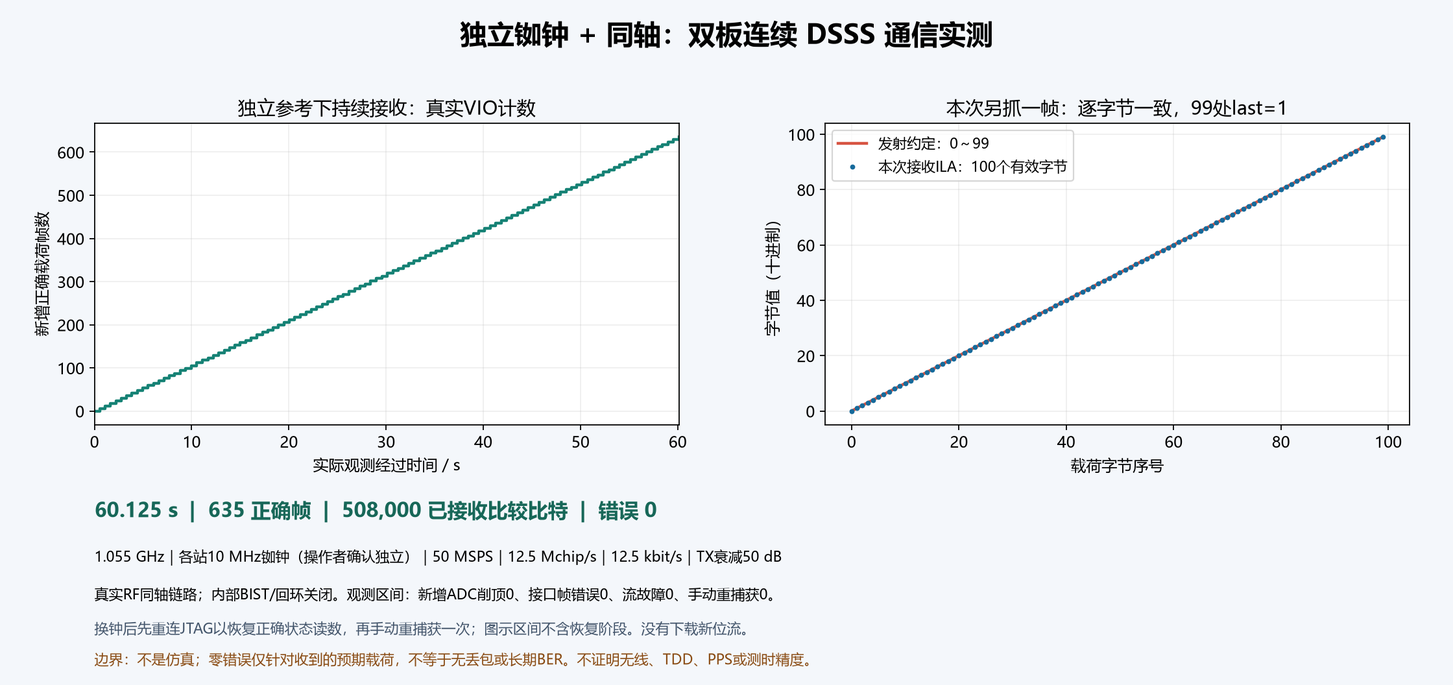
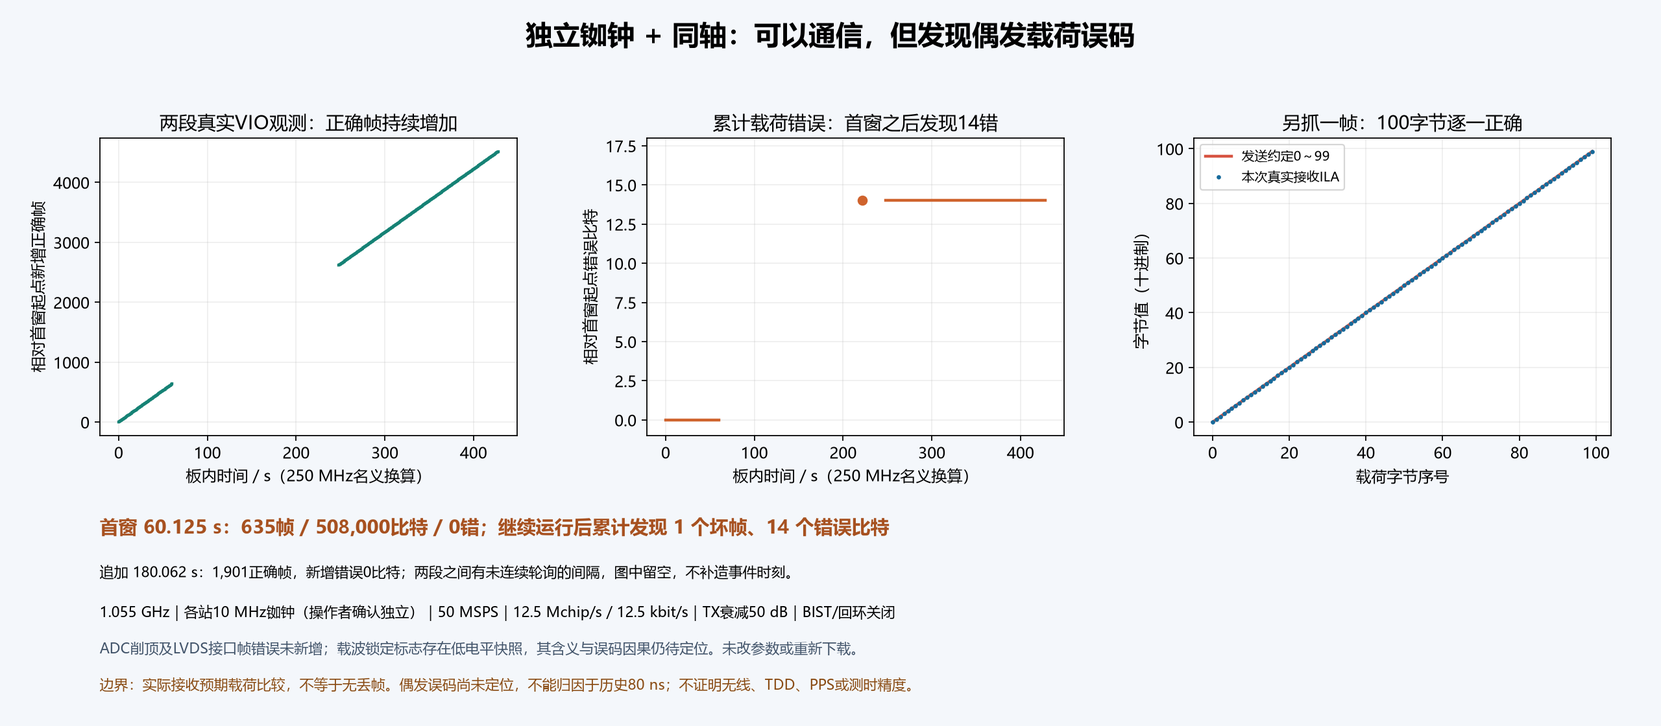
Update DSSS simulation gallery 2026-10-17

diff --git a/catalog.html b/catalog.html
@@ -771,10 +771,10 @@ img{width:100%;height:240px;object-fit:contain;background:#f8fafc}h3{font-size:1
 <li><a href="modules.html#script_continuous_rx">实板连续接收机：双板同轴载荷验证</a>：登记的新图对应模块；场景及信号说明见图注</li>
 </ul><details class="panel-note"><summary>这张图从哪里取数 / 如何阅读</summary><p>已按登记信息关联模块；具体场景及信号说明：2026-10-17两块FMQL45T900+AD9361实板，共用10MHz铷钟，同轴相连，无外部功放或衰减器。1.055GHz、I/Q50MSPS、模拟带宽20MHz、用户FIR旁路，TX芯片衰减50dB、RX MGC设20dB。真实FPGA发送组帧/PN1000/成型FIR/XPM/LVDS/AD9361 RF，经物理同轴进入另一板AD9361 ADC/LVDS/XPM/插值5/RX FIR/FFT捕获/DLL/归一化/Costas/BPSK/解帧/字节。发送148字节帧，含100字节0～99，12.5Mchip/s、12.5kbit/s、帧周期94.72ms；无PPS/TDD，PS未接入，JTAG主机调用ADI驱动初始化。首次零载荷阻断来自旧rx_norm等待200us无输入，已增加连续模式，900逐点及64稀疏恢复真实IP回归通过；插值器增加输入配对流水后比原算法多一拍/4ns，14992点位一致，时间校准须计入。最终Vivado内部STA建立0.158ns/保持0.052ns，FMSH DISABLE_ICAP/VCCM补丁实际校验并仅下载接收板。新位流重新扫描RX203/256点通过，选0x006=44；TX105/256点通过，选0x007=3B；选定点实际PRBS零新增错，完整记录本地保留。左右图都为硬件：左图60.36s真实VIO观测，新增638正确帧、63800字节、510400比较比特、错误0，ADC推进3020550000点，区间新增削顶/帧错误0、无流故障；右图另一帧独立ILA中100个payload_valid字节恰为0～99，last只在99处。关发射并等待至少300ms管线排空后，1.032s窗口新增字节/帧为0；恢复50dB发射并手动rearm后再次验收通过。BIST和数字回环关闭。此为已接收预期比特的观测零错误，未加帧序号，不等于无丢包或长期BER指标；不证明无线5km、独立铷钟、TDD、PPS或ps精度。失锁后当前为手动重捕获，外部DDR完整时序和全工况验收待补。源顶层DSSS_BPSK_TXRX_continuous_tx_top.v与DSSS_BPSK_TXRX_continuous_rx_top.v；accept_conducted_rx.py读取真实状态、plot_continuous_two_board_payload.py只在计数与ILA双门槛通过后绘图。不是Simulink仿真，原始CSV/JSON、位流/源SHA与旧失败保留本地，不公开RTL/IP/位流。</p>
 </details></article>
-<article data-era="current" data-modules="script_continuous_tx script_continuous_rx"><span class="badge">E3独立参考同轴：60.125秒635正确帧/508000已接收比较比特错误0；本次ILA100字节正确</span><h3>53_AD9361双板实测_独立铷钟同轴DSSS通信.png</h3><a href="08_MATLAB_Simulink_RTL%E5%AF%B9%E7%85%A7/53_AD9361%E5%8F%8C%E6%9D%BF%E5%AE%9E%E6%B5%8B_%E7%8B%AC%E7%AB%8B%E9%93%B7%E9%92%9F%E5%90%8C%E8%BD%B4DSSS%E9%80%9A%E4%BF%A1.png" target="_blank"><img loading="lazy" src="08_MATLAB_Simulink_RTL%E5%AF%B9%E7%85%A7/53_AD9361%E5%8F%8C%E6%9D%BF%E5%AE%9E%E6%B5%8B_%E7%8B%AC%E7%AB%8B%E9%93%B7%E9%92%9F%E5%90%8C%E8%BD%B4DSSS%E9%80%9A%E4%BF%A1.png" alt="53_AD9361双板实测_独立铷钟同轴DSSS通信.png"></a><p>2026-10-17用户确认两站改用独立铷钟10MHz；按此前同轴连接继续测试，没有改接天线或提高发射功率。载频1.055GHz、50MSPS、20MHz模拟带宽、用户FIR旁路、PN1000/12.5Mchip/s/12.5kbit/s，148字节帧周期94.72ms，载荷100字节0～99，TX衰减50dB。初始JTAG的VIO固定识别字整体错位，原始异常单独保留，未将错位数据解码为通信结果；关闭并重开两板调试连接后读数恢复，无位流下载或AD9361重新初始化。重连期间射频路径暂置RX，确认PLL锁定、接口配置和衰减后恢复低功率连续扩频发射，接收手动rearm一次，然后进入60.125秒验收区间。区间新增635正确帧、63500字节、508000个已接收比较比特、错误比特0、坏帧0；ADC推进3007600038点，新增削顶0/接口帧错误0，无流故障、区间未再次rearm。另用本次实板ILA抓到100个payload_valid字节恰为0～99，last只在99处。两板BBPLL/RXPLL/TXPLL均读回锁定，内部BIST和数字回环关闭。图左为真实VIO累积帧计数，右为本次ILA逐字节比较；不是MATLAB合成接收数据。独立参考接法依据操作者确认，本次未用频率计独立测两台铷钟频差，也不从稀疏载波相位反推频差。零错误只涵盖实际收到的预期载荷，空口无帧序号，不能推出无丢包或长期BER；不证明无线、TDD、PS接入、PPS或ps测时精度。原始日志/CSV/JSON与SHA留本地，只公开图和说明。绘图tools/plot_independent_rubidium_payload.py，脚本测量输出，不是新Simulink模块。</p><p><strong>对应模块 / 图源：</strong></p><ul class="module-links">
+<article data-era="current" data-modules="script_continuous_tx script_continuous_rx"><span class="badge">E3独立参考同轴：可持续通信，但首窗之后出现1坏帧/14错误比特；追加180.062秒未新增错</span><h3>53_AD9361双板实测_独立铷钟同轴DSSS通信.png</h3><a href="08_MATLAB_Simulink_RTL%E5%AF%B9%E7%85%A7/53_AD9361%E5%8F%8C%E6%9D%BF%E5%AE%9E%E6%B5%8B_%E7%8B%AC%E7%AB%8B%E9%93%B7%E9%92%9F%E5%90%8C%E8%BD%B4DSSS%E9%80%9A%E4%BF%A1.png" target="_blank"><img loading="lazy" src="08_MATLAB_Simulink_RTL%E5%AF%B9%E7%85%A7/53_AD9361%E5%8F%8C%E6%9D%BF%E5%AE%9E%E6%B5%8B_%E7%8B%AC%E7%AB%8B%E9%93%B7%E9%92%9F%E5%90%8C%E8%BD%B4DSSS%E9%80%9A%E4%BF%A1.png" alt="53_AD9361双板实测_独立铷钟同轴DSSS通信.png"></a><p>2026-10-17用户确认两站改用独立铷钟10MHz；按此前同轴连接继续测试，没有改接天线或提高发射功率。载频1.055GHz、50MSPS、20MHz模拟带宽、用户FIR旁路、PN1000/12.5Mchip/s/12.5kbit/s，148字节帧周期94.72ms，载荷100字节0～99，TX衰减50dB。初始JTAG的VIO固定识别字整体错位，原始异常单独保留，未将错位数据解码为通信结果；关闭并重开两板调试连接后读数恢复，无位流下载或AD9361重新初始化。重连期间射频路径暂置RX，确认PLL锁定、接口配置和衰减后恢复低功率连续扩频发射，接收手动rearm一次，然后进入60.125秒验收区间。区间新增635正确帧、63500字节、508000个已接收比较比特、错误比特0、坏帧0；ADC推进3007600038点，新增削顶0/接口帧错误0，无流故障、区间未再次rearm。另用本次实板ILA抓到100个payload_valid字节恰为0～99，last只在99处。两板BBPLL/RXPLL/TXPLL均读回锁定，内部BIST和数字回环关闭。图左为真实VIO累积帧计数，右为本次ILA逐字节比较；不是MATLAB合成接收数据。独立参考接法依据操作者确认，本次未用频率计独立测两台铷钟频差，也不从稀疏载波相位反推频差。零错误只涵盖实际收到的预期载荷，空口无帧序号，不能推出无丢包或长期BER；不证明无线、TDD、PS接入、PPS或ps测时精度。原始日志/CSV/JSON与SHA留本地，只公开图和说明。绘图tools/plot_independent_rubidium_payload.py，脚本测量输出，不是新Simulink模块。 后续扩展记录：首60.125秒零误码窗口结束后，18:00:26实板快照发现累计1坏帧/14错误比特，无新增ADC削顶或LVDS帧错误，原因未定位。未清计数、未再rearm、未改波形与增益，追加180.062秒收到1901正确帧、比较1520800比特、无新增坏帧/比特错误；不能用追加窗口通过覆盖此前失败。图已更新：左为两段真实正确帧计数，中为包含后续错误的累计错误比特，右为本次ILA；两窗间未连续轮询区段留空，不补造错误发生时刻。追加窗口部分采样carrier_locked为0，code_locked均为1；锁定标志是RTL检测器输出，不等同证明实际环路失锁，也未证明与误码存在因果。独立参考通信可工作，但稳定零误码验收未通过；历史80ns根因仍未确认。</p><p><strong>对应模块 / 图源：</strong></p><ul class="module-links">
 <li><a href="modules.html#script_continuous_tx">实板连续发射机：FPGA帧源到AD9361射频</a>：登记的新图对应模块；场景及信号说明见图注</li>
 <li><a href="modules.html#script_continuous_rx">实板连续接收机：双板同轴载荷验证</a>：登记的新图对应模块；场景及信号说明见图注</li>
-</ul><details class="panel-note"><summary>这张图从哪里取数 / 如何阅读</summary><p>已按登记信息关联模块；具体场景及信号说明：2026-10-17用户确认两站改用独立铷钟10MHz；按此前同轴连接继续测试，没有改接天线或提高发射功率。载频1.055GHz、50MSPS、20MHz模拟带宽、用户FIR旁路、PN1000/12.5Mchip/s/12.5kbit/s，148字节帧周期94.72ms，载荷100字节0～99，TX衰减50dB。初始JTAG的VIO固定识别字整体错位，原始异常单独保留，未将错位数据解码为通信结果；关闭并重开两板调试连接后读数恢复，无位流下载或AD9361重新初始化。重连期间射频路径暂置RX，确认PLL锁定、接口配置和衰减后恢复低功率连续扩频发射，接收手动rearm一次，然后进入60.125秒验收区间。区间新增635正确帧、63500字节、508000个已接收比较比特、错误比特0、坏帧0；ADC推进3007600038点，新增削顶0/接口帧错误0，无流故障、区间未再次rearm。另用本次实板ILA抓到100个payload_valid字节恰为0～99，last只在99处。两板BBPLL/RXPLL/TXPLL均读回锁定，内部BIST和数字回环关闭。图左为真实VIO累积帧计数，右为本次ILA逐字节比较；不是MATLAB合成接收数据。独立参考接法依据操作者确认，本次未用频率计独立测两台铷钟频差，也不从稀疏载波相位反推频差。零错误只涵盖实际收到的预期载荷，空口无帧序号，不能推出无丢包或长期BER；不证明无线、TDD、PS接入、PPS或ps测时精度。原始日志/CSV/JSON与SHA留本地，只公开图和说明。绘图tools/plot_independent_rubidium_payload.py，脚本测量输出，不是新Simulink模块。</p>
+</ul><details class="panel-note"><summary>这张图从哪里取数 / 如何阅读</summary><p>已按登记信息关联模块；具体场景及信号说明：2026-10-17用户确认两站改用独立铷钟10MHz；按此前同轴连接继续测试，没有改接天线或提高发射功率。载频1.055GHz、50MSPS、20MHz模拟带宽、用户FIR旁路、PN1000/12.5Mchip/s/12.5kbit/s，148字节帧周期94.72ms，载荷100字节0～99，TX衰减50dB。初始JTAG的VIO固定识别字整体错位，原始异常单独保留，未将错位数据解码为通信结果；关闭并重开两板调试连接后读数恢复，无位流下载或AD9361重新初始化。重连期间射频路径暂置RX，确认PLL锁定、接口配置和衰减后恢复低功率连续扩频发射，接收手动rearm一次，然后进入60.125秒验收区间。区间新增635正确帧、63500字节、508000个已接收比较比特、错误比特0、坏帧0；ADC推进3007600038点，新增削顶0/接口帧错误0，无流故障、区间未再次rearm。另用本次实板ILA抓到100个payload_valid字节恰为0～99，last只在99处。两板BBPLL/RXPLL/TXPLL均读回锁定，内部BIST和数字回环关闭。图左为真实VIO累积帧计数，右为本次ILA逐字节比较；不是MATLAB合成接收数据。独立参考接法依据操作者确认，本次未用频率计独立测两台铷钟频差，也不从稀疏载波相位反推频差。零错误只涵盖实际收到的预期载荷，空口无帧序号，不能推出无丢包或长期BER；不证明无线、TDD、PS接入、PPS或ps测时精度。原始日志/CSV/JSON与SHA留本地，只公开图和说明。绘图tools/plot_independent_rubidium_payload.py，脚本测量输出，不是新Simulink模块。 后续扩展记录：首60.125秒零误码窗口结束后，18:00:26实板快照发现累计1坏帧/14错误比特，无新增ADC削顶或LVDS帧错误，原因未定位。未清计数、未再rearm、未改波形与增益，追加180.062秒收到1901正确帧、比较1520800比特、无新增坏帧/比特错误；不能用追加窗口通过覆盖此前失败。图已更新：左为两段真实正确帧计数，中为包含后续错误的累计错误比特，右为本次ILA；两窗间未连续轮询区段留空，不补造错误发生时刻。追加窗口部分采样carrier_locked为0，code_locked均为1；锁定标志是RTL检测器输出，不等同证明实际环路失锁，也未证明与误码存在因果。独立参考通信可工作，但稳定零误码验收未通过；历史80ns根因仍未确认。</p>
 </details></article>
 </div></section>
 <section data-category="9" id="c9"><h2>09_无线性能与鲁棒性</h2><p class="note">当前MATLAB可视化参数探索：自定义FIR、Costas、码率与信道；与历史旧方案场景分开。功能探索不等于真实RTL或70km无线性能验收。</p><div class="grid">

diff --git a/00_图册索引.html b/00_图册索引.html
@@ -21,7 +21,7 @@
     @media(prefers-reduced-motion:reduce){html{scroll-behavior:auto}}
     </style></head><body>
 <header class="top"><div class="wrap"><a class="brand" href="00_图册索引.html">DSSS / ENGINEERING REVIEW</a><nav aria-label="主导航"><a aria-current="page" href="00_图册索引.html">评审首页</a><a href="field_environment.html">当前场景基线</a><a href="migration.html">工程主线</a><a href="modules.html">模型与模块</a><a href="node_lab.html">节点实验室</a><a href="precision_evidence.html">精度证据</a><a href="catalog.html">完整图册</a></nav></div></header>
-<div class="hero"><div class="wrap"><div class="hero-grid"><div><p class="eyebrow">LEGACY RTL → AD9361 · TRACEABLE ENGINEERING EVIDENCE</p><h1>接住原系统，解释关键误差，<br>从仿真走到双板载荷实测</h1><p class="lead">首页只回答技术评审最关心的三件事：原工程是否真正继承、80 ns与几百ps是否有可复跑证据、距离AD9361整机通信还剩哪些关卡。</p><div class="hero-actions"><a class="button primary" href="#verdict">先看评审结论 ↓</a><a class="button" href="#proofs">核对关键证据 →</a><a class="button" href="catalog.html">进入完整图册 →</a></div></div><div class="hero-note"><strong>当前总判断：双板同轴载荷通信已实测通过</strong>80 ns机制可控复现，亚码片精测算术链已有RTL证据；1.055GHz双板独立铷钟同轴通信已通过；无线/TDD、PPS和测时精度仍待验收。</div></div>
+<div class="hero"><div class="wrap"><div class="hero-grid"><div><p class="eyebrow">LEGACY RTL → AD9361 · TRACEABLE ENGINEERING EVIDENCE</p><h1>接住原系统，解释关键误差，<br>从仿真走到双板载荷实测</h1><p class="lead">首页只回答技术评审最关心的三件事：原工程是否真正继承、80 ns与几百ps是否有可复跑证据、距离AD9361整机通信还剩哪些关卡。</p><div class="hero-actions"><a class="button primary" href="#verdict">先看评审结论 ↓</a><a class="button" href="#proofs">核对关键证据 →</a><a class="button" href="catalog.html">进入完整图册 →</a></div></div><div class="hero-note"><strong>当前总判断：双板通信已通，独立参考偶发误码待定位</strong>80 ns机制可控复现，亚码片精测算术链已有RTL证据；1.055GHz双板独立铷钟同轴已能通信，但发现偶发误码；无线/TDD、PPS和测时精度仍待验收。</div></div>
 <div class="hero-foot"><span>评审版更新 2026-10-17</span><span>图册收录 127 个图文件</span><span>证据等级：功能模型 / 真实RTL分段 / 双板同轴实测 / 外场与测时待验收</span></div></div></div>
 <main class="wrap">
 <section id="verdict"><div class="section-head"><div><h2>六个数字，先给出工程判断</h2><p>数字旁边直接写明证据类型，避免把功能仿真、RTL分段和硬件实测混为一谈。</p></div><a href="precision_evidence.html">查看时间精度数据来源 →</a></div><div class="verdict">
@@ -34,10 +34,10 @@
 <section><div class="section-head"><div><h2>证据等级与当前边界</h2><p>同一个“通过”在不同层级含义不同；最终结论只能由对应等级的证据支持。</p></div></div><div class="matrix"><table><thead><tr><th>等级</th><th>当前证据</th><th>已经证明</th><th>尚不能证明</th><th>状态</th></tr></thead><tbody>
 <tr><td><b>E1 功能模型</b></td><td>MATLAB/Simulink波形、噪声、多径、环路与BER</td><td>算法趋势、参数敏感度、故障机制</td><td class="boundary-cell">定点逐拍、资源、时序和硬件固定延迟</td><td><span class="state e1">已覆盖</span></td></tr>
 <tr><td><b>E2 RTL分段</b></td><td>真实.v、生产COE/IP、XSim分段测试</td><td>接口算术、位宽、关键算法段行为</td><td class="boundary-cell">完整RF链、板级CDC/LVDS和外场性能</td><td><span class="state e2">核心段通过</span></td></tr>
-<tr><td><b>E3 板级验证</b></td><td>双板SPI/PLL/LVDS、真实连续发送和接收解码</td><td>独立参考同轴60.125秒，635正确帧/508000比较比特错误0</td><td class="boundary-cell">独立10MHz接法由操作者确认；无线/PPS精度仍待验收</td><td><span class="state e3">同轴通信通过</span></td></tr>
+<tr><td><b>E3 板级验证</b></td><td>双板SPI/PLL/LVDS、真实连续发送和接收解码</td><td>独立参考同轴可通信；首窗后出现1坏帧/14错误比特</td><td class="boundary-cell">独立参考下偶发误码待定位；无线/PPS精度仍待验收</td><td><span class="state e3">同轴通信通过</span></td></tr>
 <tr><td><b>E4 双站外场</b></td><td>独立铷钟、双向无线、≤5 km与长期统计</td><td>最终通信和钟差指标</td><td class="boundary-cell">需要按验收规程定义统计口径</td><td><span class="state e4">待验收</span></td></tr>
 </tbody></table></div></section>
-<section id="board-bringup"><div class="section-head"><div><h2>最新上板进展 · 独立参考下通信已通</h2><p>先共参考同轴，再独立参考同轴，随后验证无线和双向测时。结果来自真实板卡VIO/ILA。</p></div></div><div class="proof-grid" style="grid-template-columns:1fr"><article class="proof-card"><div class="proof-top"><span class="proof-no">LATEST / INDEPENDENT CLOCKS</span><span class="level">E3 · 独立铷钟同轴实测</span></div><h3>改用独立铷钟后，连续DSSS载荷通信通过</h3><p class="result">60.125秒｜635正确帧｜508,000个已接收比较比特错误0。</p><a class="figure" href="08_MATLAB_Simulink_RTL%E5%AF%B9%E7%85%A7/53_AD9361%E5%8F%8C%E6%9D%BF%E5%AE%9E%E6%B5%8B_%E7%8B%AC%E7%AB%8B%E9%93%B7%E9%92%9F%E5%90%8C%E8%BD%B4DSSS%E9%80%9A%E4%BF%A1.png" target="_blank" aria-label="打开原图：改用独立铷钟后，连续DSSS载荷通信通过"><img loading="lazy" src="08_MATLAB_Simulink_RTL%E5%AF%B9%E7%85%A7/53_AD9361%E5%8F%8C%E6%9D%BF%E5%AE%9E%E6%B5%8B_%E7%8B%AC%E7%AB%8B%E9%93%B7%E9%92%9F%E5%90%8C%E8%BD%B4DSSS%E9%80%9A%E4%BF%A1.png" alt="改用独立铷钟后，连续DSSS载荷通信通过"></a><dl><div><dt>工程解释</dt><dd>本次另抓ILA，100字节0～99逐一正确；PLL锁定，ADC/接口无新增错误。重连调试接口并手动重捕获一次后进入统计区间。</dd></div><div><dt>证据边界</dt><dd>各站独立10MHz由操作者确认；当前仍为同轴。没有测定两钟频差，不代表无丢包、无线、TDD、PPS或测时精度通过。</dd></div></dl><a class="detail" href="modules.html#script_continuous_rx">查看方法、来源与复跑入口 <span aria-hidden="true">→</span></a></article></div></section>
+<section id="board-bringup"><div class="section-head"><div><h2>最新上板进展 · 独立参考通信与偶发误码</h2><p>先共参考同轴，再独立参考同轴，随后验证无线和双向测时。结果来自真实板卡VIO/ILA。</p></div></div><div class="proof-grid" style="grid-template-columns:1fr"><article class="proof-card"><div class="proof-top"><span class="proof-no">LATEST / INDEPENDENT CLOCKS</span><span class="level">E3 · 独立铷钟同轴实测</span></div><h3>独立铷钟下可通信，但发现偶发载荷误码</h3><p class="result">首60.125秒零错；随后发现1坏帧/14错；追加180.062秒未新增错误。</p><a class="figure" href="08_MATLAB_Simulink_RTL%E5%AF%B9%E7%85%A7/53_AD9361%E5%8F%8C%E6%9D%BF%E5%AE%9E%E6%B5%8B_%E7%8B%AC%E7%AB%8B%E9%93%B7%E9%92%9F%E5%90%8C%E8%BD%B4DSSS%E9%80%9A%E4%BF%A1.png" target="_blank" aria-label="打开原图：独立铷钟下可通信，但发现偶发载荷误码"><img loading="lazy" src="08_MATLAB_Simulink_RTL%E5%AF%B9%E7%85%A7/53_AD9361%E5%8F%8C%E6%9D%BF%E5%AE%9E%E6%B5%8B_%E7%8B%AC%E7%AB%8B%E9%93%B7%E9%92%9F%E5%90%8C%E8%BD%B4DSSS%E9%80%9A%E4%BF%A1.png" alt="独立铷钟下可通信，但发现偶发载荷误码"></a><dl><div><dt>工程解释</dt><dd>本次ILA100字节逐一正确；PLL锁定，ADC/接口无新增错误。错误原始记录保留，期间未改参数或清计数；偶发误码仍需定位。</dd></div><div><dt>证据边界</dt><dd>各站独立10MHz由操作者确认；当前同轴。稳定零误码尚未通过，未测两钟频差；无线、TDD、PPS和测时精度待验收。</dd></div></dl><a class="detail" href="modules.html#script_continuous_rx">查看方法、来源与复跑入口 <span aria-hidden="true">→</span></a></article></div></section>
 <section id="workflow"><div class="section-head"><div><h2>工程继承与迁移主线</h2><p>所有新模型和代码都沿这条主线追溯；不把脚本功能参考冒充HDL自动生成。</p></div><a href="migration.html">查看差异、同载荷向量和关卡 →</a></div><div class="route">
 <a class="step" href="migration.html"><small>01 / BASELINE</small><strong>原Vivado工程</strong><p>审计组帧、PN、FIR、FFT捕获、DLL、Costas与时标链。</p></a>
 <a class="step" href="modules.html#diagram-if"><small>02 / REPRODUCTION</small><strong>原中频Simulink</strong><p>复现原链路结构，建立同载荷与系数基准。</p></a>
@@ -55,7 +55,7 @@
 <section><div class="section-head"><div><h2>技术评审最可能追问的三件事</h2><p>页面直接给出当前可站得住的回答，避免把推测说成结论。</p></div></div><div class="questions">
 <article class="question"><small>ROOT CAUSE</small><h3>80 ns现场故障是否已经定根因？</h3><p>已证明相邻路径峰误选和抽取相位变化都能形成整码片台阶，也修正过RX PPS跨时钟缺陷；缺少当次故障ILA，因此结论仍需现场信号确认。</p><a href="catalog.html#c8">查看80 ns证据链 →</a></article>
 <article class="question"><small>PRECISION</small><h3>几百ps是实测，还是预算与RTL算术？</h3><p>8.018 ps是理想输入下RTL码环残差，350 ps是RTL测试平台注入量，129.6 ps是工程预算。三者均不冒充70 km整机实测。</p><a href="precision_evidence.html">逐项核对数字来源 →</a></article>
-<article class="question"><small>DELIVERY</small><h3>当前板上已经验证到哪一步？</h3><p>双板独立参考同轴连续通信已通过，本次ILA100字节逐一核对，60秒统计零观测错误；PS、TDD、无线和PPS测时仍需验收。</p><a href="completion.html">查看落地关卡 →</a></article>
+<article class="question"><small>DELIVERY</small><h3>当前板上已经验证到哪一步？</h3><p>双板独立参考同轴可通信，本次ILA100字节正确，但继续运行出现1坏帧/14错误比特；稳定零误码、PS、TDD、无线和PPS测时仍需验收。</p><a href="completion.html">查看落地关卡 →</a></article>
 </div></section>
 <section><div class="section-head"><div><h2>硬件落地关卡</h2><p>展示完成状态和下一步测试，不用波形数量代替交付进度。</p></div><a href="completion.html">查看完整完成度与待办 →</a></div><div class="gates"><div class="gate-panel"><h3>从算法证据到双站验收</h3><ul class="gate-list">
 <li class="done"><span>已完成</span>原链路审计、AD9361功能模型、参数来源映射与候选COE/IP配置</li>

diff --git a/index.html b/index.html
@@ -21,7 +21,7 @@
     @media(prefers-reduced-motion:reduce){html{scroll-behavior:auto}}
     </style></head><body>
 <header class="top"><div class="wrap"><a class="brand" href="00_图册索引.html">DSSS / ENGINEERING REVIEW</a><nav aria-label="主导航"><a aria-current="page" href="00_图册索引.html">评审首页</a><a href="field_environment.html">当前场景基线</a><a href="migration.html">工程主线</a><a href="modules.html">模型与模块</a><a href="node_lab.html">节点实验室</a><a href="precision_evidence.html">精度证据</a><a href="catalog.html">完整图册</a></nav></div></header>
-<div class="hero"><div class="wrap"><div class="hero-grid"><div><p class="eyebrow">LEGACY RTL → AD9361 · TRACEABLE ENGINEERING EVIDENCE</p><h1>接住原系统，解释关键误差，<br>从仿真走到双板载荷实测</h1><p class="lead">首页只回答技术评审最关心的三件事：原工程是否真正继承、80 ns与几百ps是否有可复跑证据、距离AD9361整机通信还剩哪些关卡。</p><div class="hero-actions"><a class="button primary" href="#verdict">先看评审结论 ↓</a><a class="button" href="#proofs">核对关键证据 →</a><a class="button" href="catalog.html">进入完整图册 →</a></div></div><div class="hero-note"><strong>当前总判断：双板同轴载荷通信已实测通过</strong>80 ns机制可控复现，亚码片精测算术链已有RTL证据；1.055GHz双板独立铷钟同轴通信已通过；无线/TDD、PPS和测时精度仍待验收。</div></div>
+<div class="hero"><div class="wrap"><div class="hero-grid"><div><p class="eyebrow">LEGACY RTL → AD9361 · TRACEABLE ENGINEERING EVIDENCE</p><h1>接住原系统，解释关键误差，<br>从仿真走到双板载荷实测</h1><p class="lead">首页只回答技术评审最关心的三件事：原工程是否真正继承、80 ns与几百ps是否有可复跑证据、距离AD9361整机通信还剩哪些关卡。</p><div class="hero-actions"><a class="button primary" href="#verdict">先看评审结论 ↓</a><a class="button" href="#proofs">核对关键证据 →</a><a class="button" href="catalog.html">进入完整图册 →</a></div></div><div class="hero-note"><strong>当前总判断：双板通信已通，独立参考偶发误码待定位</strong>80 ns机制可控复现，亚码片精测算术链已有RTL证据；1.055GHz双板独立铷钟同轴已能通信，但发现偶发误码；无线/TDD、PPS和测时精度仍待验收。</div></div>
 <div class="hero-foot"><span>评审版更新 2026-10-17</span><span>图册收录 127 个图文件</span><span>证据等级：功能模型 / 真实RTL分段 / 双板同轴实测 / 外场与测时待验收</span></div></div></div>
 <main class="wrap">
 <section id="verdict"><div class="section-head"><div><h2>六个数字，先给出工程判断</h2><p>数字旁边直接写明证据类型，避免把功能仿真、RTL分段和硬件实测混为一谈。</p></div><a href="precision_evidence.html">查看时间精度数据来源 →</a></div><div class="verdict">
@@ -34,10 +34,10 @@
 <section><div class="section-head"><div><h2>证据等级与当前边界</h2><p>同一个“通过”在不同层级含义不同；最终结论只能由对应等级的证据支持。</p></div></div><div class="matrix"><table><thead><tr><th>等级</th><th>当前证据</th><th>已经证明</th><th>尚不能证明</th><th>状态</th></tr></thead><tbody>
 <tr><td><b>E1 功能模型</b></td><td>MATLAB/Simulink波形、噪声、多径、环路与BER</td><td>算法趋势、参数敏感度、故障机制</td><td class="boundary-cell">定点逐拍、资源、时序和硬件固定延迟</td><td><span class="state e1">已覆盖</span></td></tr>
 <tr><td><b>E2 RTL分段</b></td><td>真实.v、生产COE/IP、XSim分段测试</td><td>接口算术、位宽、关键算法段行为</td><td class="boundary-cell">完整RF链、板级CDC/LVDS和外场性能</td><td><span class="state e2">核心段通过</span></td></tr>
-<tr><td><b>E3 板级验证</b></td><td>双板SPI/PLL/LVDS、真实连续发送和接收解码</td><td>独立参考同轴60.125秒，635正确帧/508000比较比特错误0</td><td class="boundary-cell">独立10MHz接法由操作者确认；无线/PPS精度仍待验收</td><td><span class="state e3">同轴通信通过</span></td></tr>
+<tr><td><b>E3 板级验证</b></td><td>双板SPI/PLL/LVDS、真实连续发送和接收解码</td><td>独立参考同轴可通信；首窗后出现1坏帧/14错误比特</td><td class="boundary-cell">独立参考下偶发误码待定位；无线/PPS精度仍待验收</td><td><span class="state e3">同轴通信通过</span></td></tr>
 <tr><td><b>E4 双站外场</b></td><td>独立铷钟、双向无线、≤5 km与长期统计</td><td>最终通信和钟差指标</td><td class="boundary-cell">需要按验收规程定义统计口径</td><td><span class="state e4">待验收</span></td></tr>
 </tbody></table></div></section>
-<section id="board-bringup"><div class="section-head"><div><h2>最新上板进展 · 独立参考下通信已通</h2><p>先共参考同轴，再独立参考同轴，随后验证无线和双向测时。结果来自真实板卡VIO/ILA。</p></div></div><div class="proof-grid" style="grid-template-columns:1fr"><article class="proof-card"><div class="proof-top"><span class="proof-no">LATEST / INDEPENDENT CLOCKS</span><span class="level">E3 · 独立铷钟同轴实测</span></div><h3>改用独立铷钟后，连续DSSS载荷通信通过</h3><p class="result">60.125秒｜635正确帧｜508,000个已接收比较比特错误0。</p><a class="figure" href="08_MATLAB_Simulink_RTL%E5%AF%B9%E7%85%A7/53_AD9361%E5%8F%8C%E6%9D%BF%E5%AE%9E%E6%B5%8B_%E7%8B%AC%E7%AB%8B%E9%93%B7%E9%92%9F%E5%90%8C%E8%BD%B4DSSS%E9%80%9A%E4%BF%A1.png" target="_blank" aria-label="打开原图：改用独立铷钟后，连续DSSS载荷通信通过"><img loading="lazy" src="08_MATLAB_Simulink_RTL%E5%AF%B9%E7%85%A7/53_AD9361%E5%8F%8C%E6%9D%BF%E5%AE%9E%E6%B5%8B_%E7%8B%AC%E7%AB%8B%E9%93%B7%E9%92%9F%E5%90%8C%E8%BD%B4DSSS%E9%80%9A%E4%BF%A1.png" alt="改用独立铷钟后，连续DSSS载荷通信通过"></a><dl><div><dt>工程解释</dt><dd>本次另抓ILA，100字节0～99逐一正确；PLL锁定，ADC/接口无新增错误。重连调试接口并手动重捕获一次后进入统计区间。</dd></div><div><dt>证据边界</dt><dd>各站独立10MHz由操作者确认；当前仍为同轴。没有测定两钟频差，不代表无丢包、无线、TDD、PPS或测时精度通过。</dd></div></dl><a class="detail" href="modules.html#script_continuous_rx">查看方法、来源与复跑入口 <span aria-hidden="true">→</span></a></article></div></section>
+<section id="board-bringup"><div class="section-head"><div><h2>最新上板进展 · 独立参考通信与偶发误码</h2><p>先共参考同轴，再独立参考同轴，随后验证无线和双向测时。结果来自真实板卡VIO/ILA。</p></div></div><div class="proof-grid" style="grid-template-columns:1fr"><article class="proof-card"><div class="proof-top"><span class="proof-no">LATEST / INDEPENDENT CLOCKS</span><span class="level">E3 · 独立铷钟同轴实测</span></div><h3>独立铷钟下可通信，但发现偶发载荷误码</h3><p class="result">首60.125秒零错；随后发现1坏帧/14错；追加180.062秒未新增错误。</p><a class="figure" href="08_MATLAB_Simulink_RTL%E5%AF%B9%E7%85%A7/53_AD9361%E5%8F%8C%E6%9D%BF%E5%AE%9E%E6%B5%8B_%E7%8B%AC%E7%AB%8B%E9%93%B7%E9%92%9F%E5%90%8C%E8%BD%B4DSSS%E9%80%9A%E4%BF%A1.png" target="_blank" aria-label="打开原图：独立铷钟下可通信，但发现偶发载荷误码"><img loading="lazy" src="08_MATLAB_Simulink_RTL%E5%AF%B9%E7%85%A7/53_AD9361%E5%8F%8C%E6%9D%BF%E5%AE%9E%E6%B5%8B_%E7%8B%AC%E7%AB%8B%E9%93%B7%E9%92%9F%E5%90%8C%E8%BD%B4DSSS%E9%80%9A%E4%BF%A1.png" alt="独立铷钟下可通信，但发现偶发载荷误码"></a><dl><div><dt>工程解释</dt><dd>本次ILA100字节逐一正确；PLL锁定，ADC/接口无新增错误。错误原始记录保留，期间未改参数或清计数；偶发误码仍需定位。</dd></div><div><dt>证据边界</dt><dd>各站独立10MHz由操作者确认；当前同轴。稳定零误码尚未通过，未测两钟频差；无线、TDD、PPS和测时精度待验收。</dd></div></dl><a class="detail" href="modules.html#script_continuous_rx">查看方法、来源与复跑入口 <span aria-hidden="true">→</span></a></article></div></section>
 <section id="workflow"><div class="section-head"><div><h2>工程继承与迁移主线</h2><p>所有新模型和代码都沿这条主线追溯；不把脚本功能参考冒充HDL自动生成。</p></div><a href="migration.html">查看差异、同载荷向量和关卡 →</a></div><div class="route">
 <a class="step" href="migration.html"><small>01 / BASELINE</small><strong>原Vivado工程</strong><p>审计组帧、PN、FIR、FFT捕获、DLL、Costas与时标链。</p></a>
 <a class="step" href="modules.html#diagram-if"><small>02 / REPRODUCTION</small><strong>原中频Simulink</strong><p>复现原链路结构，建立同载荷与系数基准。</p></a>
@@ -55,7 +55,7 @@
 <section><div class="section-head"><div><h2>技术评审最可能追问的三件事</h2><p>页面直接给出当前可站得住的回答，避免把推测说成结论。</p></div></div><div class="questions">
 <article class="question"><small>ROOT CAUSE</small><h3>80 ns现场故障是否已经定根因？</h3><p>已证明相邻路径峰误选和抽取相位变化都能形成整码片台阶，也修正过RX PPS跨时钟缺陷；缺少当次故障ILA，因此结论仍需现场信号确认。</p><a href="catalog.html#c8">查看80 ns证据链 →</a></article>
 <article class="question"><small>PRECISION</small><h3>几百ps是实测，还是预算与RTL算术？</h3><p>8.018 ps是理想输入下RTL码环残差，350 ps是RTL测试平台注入量，129.6 ps是工程预算。三者均不冒充70 km整机实测。</p><a href="precision_evidence.html">逐项核对数字来源 →</a></article>
-<article class="question"><small>DELIVERY</small><h3>当前板上已经验证到哪一步？</h3><p>双板独立参考同轴连续通信已通过，本次ILA100字节逐一核对，60秒统计零观测错误；PS、TDD、无线和PPS测时仍需验收。</p><a href="completion.html">查看落地关卡 →</a></article>
+<article class="question"><small>DELIVERY</small><h3>当前板上已经验证到哪一步？</h3><p>双板独立参考同轴可通信，本次ILA100字节正确，但继续运行出现1坏帧/14错误比特；稳定零误码、PS、TDD、无线和PPS测时仍需验收。</p><a href="completion.html">查看落地关卡 →</a></article>
 </div></section>
 <section><div class="section-head"><div><h2>硬件落地关卡</h2><p>展示完成状态和下一步测试，不用波形数量代替交付进度。</p></div><a href="completion.html">查看完整完成度与待办 →</a></div><div class="gates"><div class="gate-panel"><h3>从算法证据到双站验收</h3><ul class="gate-list">
 <li class="done"><span>已完成</span>原链路审计、AD9361功能模型、参数来源映射与候选COE/IP配置</li>

diff --git a/modules.html b/modules.html
@@ -1348,6 +1348,6 @@ hilite_system(&#x27;dsss_ad9361_official/Scope_TX_IQ&#x27;,&#x27;find&#x27;);</p
 </details>
 <details><summary>52_AD9361双板实测_连续DSSS载荷通信验收.png</summary><p>已按登记信息关联模块；具体场景及信号说明：2026-10-17两块FMQL45T900+AD9361实板，共用10MHz铷钟，同轴相连，无外部功放或衰减器。1.055GHz、I/Q50MSPS、模拟带宽20MHz、用户FIR旁路，TX芯片衰减50dB、RX MGC设20dB。真实FPGA发送组帧/PN1000/成型FIR/XPM/LVDS/AD9361 RF，经物理同轴进入另一板AD9361 ADC/LVDS/XPM/插值5/RX FIR/FFT捕获/DLL/归一化/Costas/BPSK/解帧/字节。发送148字节帧，含100字节0～99，12.5Mchip/s、12.5kbit/s、帧周期94.72ms；无PPS/TDD，PS未接入，JTAG主机调用ADI驱动初始化。首次零载荷阻断来自旧rx_norm等待200us无输入，已增加连续模式，900逐点及64稀疏恢复真实IP回归通过；插值器增加输入配对流水后比原算法多一拍/4ns，14992点位一致，时间校准须计入。最终Vivado内部STA建立0.158ns/保持0.052ns，FMSH DISABLE_ICAP/VCCM补丁实际校验并仅下载接收板。新位流重新扫描RX203/256点通过，选0x006=44；TX105/256点通过，选0x007=3B；选定点实际PRBS零新增错，完整记录本地保留。左右图都为硬件：左图60.36s真实VIO观测，新增638正确帧、63800字节、510400比较比特、错误0，ADC推进3020550000点，区间新增削顶/帧错误0、无流故障；右图另一帧独立ILA中100个payload_valid字节恰为0～99，last只在99处。关发射并等待至少300ms管线排空后，1.032s窗口新增字节/帧为0；恢复50dB发射并手动rearm后再次验收通过。BIST和数字回环关闭。此为已接收预期比特的观测零错误，未加帧序号，不等于无丢包或长期BER指标；不证明无线5km、独立铷钟、TDD、PPS或ps精度。失锁后当前为手动重捕获，外部DDR完整时序和全工况验收待补。源顶层DSSS_BPSK_TXRX_continuous_tx_top.v与DSSS_BPSK_TXRX_continuous_rx_top.v；accept_conducted_rx.py读取真实状态、plot_continuous_two_board_payload.py只在计数与ILA双门槛通过后绘图。不是Simulink仿真，原始CSV/JSON、位流/源SHA与旧失败保留本地，不公开RTL/IP/位流。</p>
 </details>
-<details><summary>53_AD9361双板实测_独立铷钟同轴DSSS通信.png</summary><p>已按登记信息关联模块；具体场景及信号说明：2026-10-17用户确认两站改用独立铷钟10MHz；按此前同轴连接继续测试，没有改接天线或提高发射功率。载频1.055GHz、50MSPS、20MHz模拟带宽、用户FIR旁路、PN1000/12.5Mchip/s/12.5kbit/s，148字节帧周期94.72ms，载荷100字节0～99，TX衰减50dB。初始JTAG的VIO固定识别字整体错位，原始异常单独保留，未将错位数据解码为通信结果；关闭并重开两板调试连接后读数恢复，无位流下载或AD9361重新初始化。重连期间射频路径暂置RX，确认PLL锁定、接口配置和衰减后恢复低功率连续扩频发射，接收手动rearm一次，然后进入60.125秒验收区间。区间新增635正确帧、63500字节、508000个已接收比较比特、错误比特0、坏帧0；ADC推进3007600038点，新增削顶0/接口帧错误0，无流故障、区间未再次rearm。另用本次实板ILA抓到100个payload_valid字节恰为0～99，last只在99处。两板BBPLL/RXPLL/TXPLL均读回锁定，内部BIST和数字回环关闭。图左为真实VIO累积帧计数，右为本次ILA逐字节比较；不是MATLAB合成接收数据。独立参考接法依据操作者确认，本次未用频率计独立测两台铷钟频差，也不从稀疏载波相位反推频差。零错误只涵盖实际收到的预期载荷，空口无帧序号，不能推出无丢包或长期BER；不证明无线、TDD、PS接入、PPS或ps测时精度。原始日志/CSV/JSON与SHA留本地，只公开图和说明。绘图tools/plot_independent_rubidium_payload.py，脚本测量输出，不是新Simulink模块。</p>
+<details><summary>53_AD9361双板实测_独立铷钟同轴DSSS通信.png</summary><p>已按登记信息关联模块；具体场景及信号说明：2026-10-17用户确认两站改用独立铷钟10MHz；按此前同轴连接继续测试，没有改接天线或提高发射功率。载频1.055GHz、50MSPS、20MHz模拟带宽、用户FIR旁路、PN1000/12.5Mchip/s/12.5kbit/s，148字节帧周期94.72ms，载荷100字节0～99，TX衰减50dB。初始JTAG的VIO固定识别字整体错位，原始异常单独保留，未将错位数据解码为通信结果；关闭并重开两板调试连接后读数恢复，无位流下载或AD9361重新初始化。重连期间射频路径暂置RX，确认PLL锁定、接口配置和衰减后恢复低功率连续扩频发射，接收手动rearm一次，然后进入60.125秒验收区间。区间新增635正确帧、63500字节、508000个已接收比较比特、错误比特0、坏帧0；ADC推进3007600038点，新增削顶0/接口帧错误0，无流故障、区间未再次rearm。另用本次实板ILA抓到100个payload_valid字节恰为0～99，last只在99处。两板BBPLL/RXPLL/TXPLL均读回锁定，内部BIST和数字回环关闭。图左为真实VIO累积帧计数，右为本次ILA逐字节比较；不是MATLAB合成接收数据。独立参考接法依据操作者确认，本次未用频率计独立测两台铷钟频差，也不从稀疏载波相位反推频差。零错误只涵盖实际收到的预期载荷，空口无帧序号，不能推出无丢包或长期BER；不证明无线、TDD、PS接入、PPS或ps测时精度。原始日志/CSV/JSON与SHA留本地，只公开图和说明。绘图tools/plot_independent_rubidium_payload.py，脚本测量输出，不是新Simulink模块。 后续扩展记录：首60.125秒零误码窗口结束后，18:00:26实板快照发现累计1坏帧/14错误比特，无新增ADC削顶或LVDS帧错误，原因未定位。未清计数、未再rearm、未改波形与增益，追加180.062秒收到1901正确帧、比较1520800比特、无新增坏帧/比特错误；不能用追加窗口通过覆盖此前失败。图已更新：左为两段真实正确帧计数，中为包含后续错误的累计错误比特，右为本次ILA；两窗间未连续轮询区段留空，不补造错误发生时刻。追加窗口部分采样carrier_locked为0，code_locked均为1；锁定标志是RTL检测器输出，不等同证明实际环路失锁，也未证明与误码存在因果。独立参考通信可工作，但稳定零误码验收未通过；历史80ns根因仍未确认。</p>
 </details>
 <script>document.querySelectorAll('[data-diagram][data-zoom]').forEach(button=>button.addEventListener('click',()=>{const image=document.getElementById('image-'+button.dataset.diagram);image.style.width=(100*Number(button.dataset.zoom))+'%';}));</script></main></html>
